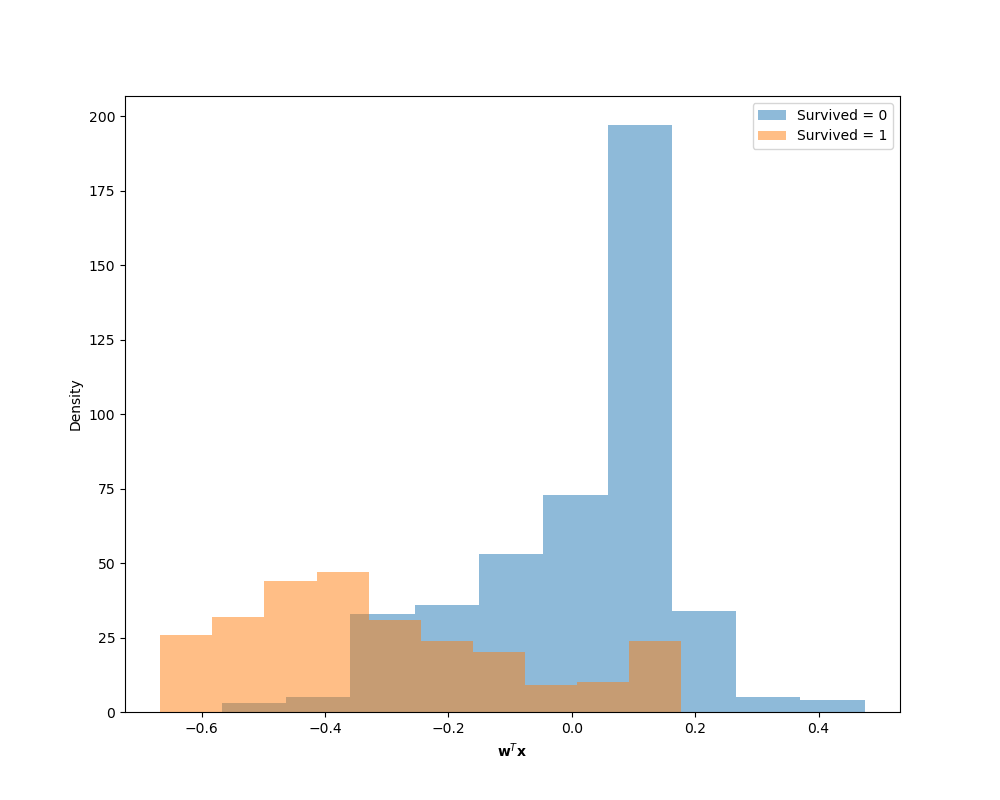
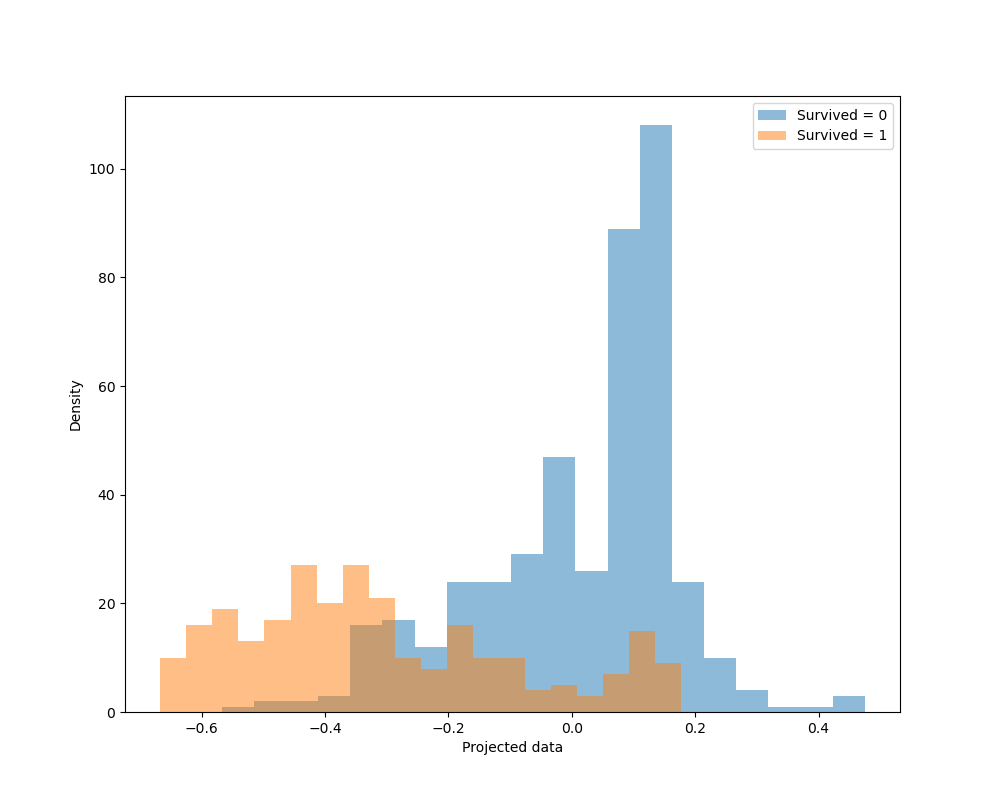
align command line execution to what is expected

diff --git a/main.py b/main.py
@@ -14,8 +14,9 @@ import comparison as comp
 
 
 def preprocessing(df):
+    """Carry out preprocessing of the data to fill missing values, remove an outlier and 
+        convert ordinal variables to one hot vectors"""
     prep.sex2binary(df)
-    #prep.fillagewithmean(df)
     prep.fill_na_age(df)
     prep.fillembarked3(df)
     df = prep.extractTitles(df)
@@ -24,90 +25,101 @@ def preprocessing(df):
     return prep.convert2onehot(df, 'Sex', 'Embarked', 'Title'), df
 
 def explore(df):
+    """This function is used to produce all exploratory plots"""
     expl.variable_info(df)
     expl.plot_heatmap(df)
     expl.plot_overlay_hist(df)
 
     
-def main():
+def main(ifname, knn=False, forest=False, logistic=False, fisher=False, model_comparison=False):
 
     # set cmd panda view and import data
     pd.set_option('display.max_columns', None)
-    alldata = prep.import2df('data/train.csv')
+    alldata = prep.import2df(ifname)
     #alldata = prep.import2df(r'C:\Users\user\ML-group-project.git\ML-group-project\data\train.csv')
 
     # fill in missing data and convert categories to one hot
     alldata, alldata_discrete = preprocessing(alldata)
 
     #Produce some exploratory plots of the data
-    explore(alldata_discrete)
+    #explore(alldata_discrete)
 
     # split 80:10:10 train-validation-test
     x = alldata.drop('Survived', axis=1)
     y = alldata["Survived"]
     X_train, Y_train, X_valid, Y_valid, X_test, Y_test = prep.partition(x, y)
     
-    # Checking KNN vs number of K-neighbors to identify optimum K 
-    eval.accuracy_v_param(X_train,Y_train,X_test,Y_test)
-    # Running the KNN model
-    knn_start_time = time.time()
-    knn_prediction = methods.KNN_predict(X_train, Y_train, X_test, 30)
-    knn_runtime = time.time() - knn_start_time
-    print("------Results for KNN--------")
-    comp.model_performance(knn_prediction, Y_test, knn_runtime)
+    if knn == True:
+        # Checking KNN vs number of K-neighbors to identify optimum K 
+        eval.accuracy_v_param(X_train,Y_train,X_test,Y_test)
+        # Running the KNN model
+        knn_start_time = time.time()
+        knn_prediction = methods.KNN_predict(X_train, Y_train, X_test, 30)
+        knn_runtime = time.time() - knn_start_time
+        print("------Results for KNN--------")
+        comp.model_performance(knn_prediction, Y_test, knn_runtime)
+        cv_val = eval.kfoldCV(alldata, f=3, model="knn", print_result=True)
 
-
-    # # Run random forest model with 100 n_estimators
-    forest_start_time = time.time()
-    forest_prediction = methods.randomForest(X_train, Y_train, X_test, n_estimators=100)
-    forest_runtime = time.time() - forest_start_time
-    print("------Results for Random Forest--------")
-    comp.model_performance(forest_prediction, Y_test, forest_runtime)
-
-    # # Run Logistic Regression model
-    logistic_start_time = time.time()
-    logistic = methods.LogisticRegression()
-    logistic_prediction = logistic.weighting(X_train,Y_train, X_test)
-    logistic_runtime = time.time() - logistic_start_time
-    print("------Results for Logistic Regression--------")
-    comp.model_performance(logistic_prediction, Y_test, logistic_runtime)
-
-    # # Running Fisher LDA
-    fisher_start_time = time.time()
-    fisher_prediction = methods.fishers_LDA(X_train, Y_train, X_test, plot_hist = True)
-    fisher_runtime = time.time() - fisher_start_time
-    print("------Results for Fisher LDA--------")
-    comp.model_performance(fisher_prediction, Y_test, fisher_runtime)
-
-    #Assess Accuracy and Expected loss against sample
-    #Takes 2 minutes to run
-    comp.metric_v_sample(x,y)
-
+    if forest == True:
+        # # Run random forest model with 100 n_estimators
+        forest_start_time = time.time()
+        forest_prediction = methods.randomForest(X_train, Y_train, X_test, n_estimators=100)
+        forest_runtime = time.time() - forest_start_time
+        print("------Results for Random Forest--------")
+        comp.model_performance(forest_prediction, Y_test, forest_runtime)
+        cv_val = eval.kfoldCV(alldata, f=3, model="forest", print_result=True) 
     
-    # # Confusion matrices
-    # TODO Currently the scale is not the same on all 4 plots. 
-    #   This can be modified so that the colours correspond to the same values for all 4 plots
-    comp.plot_cm_comparison(forest_prediction, knn_prediction, fisher_prediction, logistic_prediction, Y_test)
-    
-    # # K-Fold Cross Validation 
-    #Takes just over a minute
-    print("------Cross validation results for KNN--------")
-    cv_val = eval.kfoldCV(alldata, f=3, model="knn", print_result=True)
-    print("------Cross validation results Fisher LDA--------")
-    cv_val = eval.kfoldCV(alldata, f=3, model="fisher", print_result=True)
-    print("------Cross validation results for Random Forest--------")
-    cv_val = eval.kfoldCV(alldata, f=3, model="forest", print_result=True) 
-    print("------Cross validation results for Logistic Regression--------")
-    cv_val = eval.kfoldCV(alldata, f=3, model="logistic", print_result=True) 
-
-    # # K-Fold mean accuracy vs number of folds
-    #This takes approximately 8 minutes 
-    comp.accuracy_v_fold(alldata)
+    if logistic == True:
+        # Run Logistic Regression model
+        logistic_start_time = time.time()
+        logistic = methods.LogisticRegression()
+        logistic_prediction = logistic.weighting(X_train,Y_train, X_test)
+        logistic_runtime = time.time() - logistic_start_time
+        print("------Results for Logistic Regression--------")
+        comp.model_performance(logistic_prediction, Y_test, logistic_runtime)
+        cv_val = eval.kfoldCV(alldata, f=3, model="logistic", print_result=True) 
 
 
+    if fisher == True:
+        # # Running Fisher LDA
+        fisher_start_time = time.time()
+        fisher_prediction = methods.fishers_LDA(X_train, Y_train, X_test, plot_hist = True)
+        fisher_runtime = time.time() - fisher_start_time
+        print("------Results for Fisher LDA--------")
+        comp.model_performance(fisher_prediction, Y_test, fisher_runtime)
+        cv_val = eval.kfoldCV(alldata, f=3, model="fisher", print_result=True)
+
+    if model_comparison == True:
+        #Assess Accuracy and Expected loss against sample
+        #Takes 2 minutes to run
+        #comp.metric_v_sample(x,y)
+        
+        # # Confusion matrices
+        # TODO Currently the scale is not the same on all 4 plots. This can be modified so that the colours correspond to the same values for all 4 plots
+        comp.plot_cm_comparison(forest_prediction, knn_prediction, fisher_prediction, logistic_prediction, Y_test)
+
+        # # K-Fold mean accuracy vs number of folds
+        #This takes approximately 8 minutes 
+        #comp.accuracy_v_fold(alldata)
 
 
 if __name__ == "__main__":
-    main()
-
+    import sys
+    if len(sys.argv) == 1:
+        print("Please specify data file data\\train.csv") 
+    else:
+        # assumes that the first argument is the name of the input data/path
+        if len(sys.argv) == 2:
+            main(ifname=sys.argv[1], knn=True, forest=True, logistic=True, fisher=True, model_comparison=True)
+        else:
+            # assumes that the second argument is the name of the model to be run
+            model = sys.argv[2]
+            if model == "knn":
+                main(ifname=sys.argv[1], knn=True)
+            elif model == "forest":
+                main(ifname=sys.argv[1], forest=True) 
+            elif model == "logistic":
+                main(ifname=sys.argv[1], logistic=True)  
+            elif model == "fisher":
+                main(ifname=sys.argv[1], fisher=True)            
 

diff --git a/comparison.py b/comparison.py
@@ -8,6 +8,7 @@ from statistics import mean
 
 
 def model_performance(model_prediction, Y_test, runtime):
+    """This function prints a number of performance metrics to the console using the prediction made by the model"""
     print("Accuracy:",round(eval.accuracy(model_prediction,Y_test), 4))
     print("Expected loss:",round(eval.expected_loss(Y_test,model_prediction,eval.confusion_matrix(model_prediction,Y_test)), 4))
     print("Misclassification error:", round(eval.misclassification_error(Y_test,model_prediction), 4))
@@ -17,6 +18,7 @@ def model_performance(model_prediction, Y_test, runtime):
 
 
 def plot_cm_comparison(forest_prediction, knn_prediction, fisher_prediction, logistic_prediction, Y_test):
+    """This function plots a confusion matrix for all four models"""
     fig, axs = plt.subplots(2, 2)
     fig.suptitle('Confusion matrices')
     sns.heatmap(eval.confusion_matrix(forest_prediction, Y_test), annot=True, ax=axs[0, 0], xticklabels=False)
@@ -32,8 +34,9 @@ def plot_cm_comparison(forest_prediction, knn_prediction, fisher_prediction, log
     
 # Accuracy vs Training sample size
 def metric_v_sample(x,y):
-    """Function plots the accuracy against the sample size of different models. The inputs is the chosen 
-    model. The output is the plot"""
+    """Function plots the accuracy and expected loss against the sample size of different models. 
+    The inputs is the data. 
+    The output is the plots"""
     size = np.arange(0.11,0.9,0.1)
     KNN_accuracy_score = []
     KNN_loss = []
@@ -98,21 +101,21 @@ def accuracy_v_fold(x):
     forest_cross_vals = []
     fisher_cross_vals = []
     folds = np.arange(2, 10, 2)
-    for i in folds:       
-        logistic_cv_val = eval.kfoldCV(x, f=i, model="logistic")
-        logistic_cross_vals.append(mean(logistic_cv_val))
+    for i in folds:
         knn_cv_val = eval.kfoldCV(x, f=i, k=30, model="knn")
-        knn_cross_vals.append(mean(knn_cv_val))
+        knn_cross_vals.append(mean(knn_cv_val))   
         forest_cv_val = eval.kfoldCV(x, f=i, n_estimators=100, model="forest")
         forest_cross_vals.append(mean(forest_cv_val))
+        logistic_cv_val = eval.kfoldCV(x, f=i, model="logistic")
+        logistic_cross_vals.append(mean(logistic_cv_val))
         fisher_cv_val = eval.kfoldCV(x, f=i, model="fisher")
         fisher_cross_vals.append(mean(fisher_cv_val))
             
     # plotting routine
     plt.figure()
-    plt.plot(folds, logistic_cross_vals, label="Logistic Regression")
     plt.plot(folds, knn_cross_vals, label="KNN")
     plt.plot(folds, forest_cross_vals, label="Random Forest")
+    plt.plot(folds, logistic_cross_vals, label="Logistic Regression")
     plt.plot(folds, fisher_cross_vals, label="FishersLDA")
     plt.xlabel("Folds")
     plt.ylabel("Accuracy")

diff --git a/preprocessing.py b/preprocessing.py
@@ -21,12 +21,7 @@ def convert2onehot(df, *args):
         df = df.join(onehot)
     return df
 
-
-def fillagewithmean(df):
-    """Replace missing age values with the average"""
-    df['Age'] = df['Age'].fillna(value=df['Age'].mean())
-
-#Need to include link to this function in reference
+#TODO Need to include link to this function in reference
 def prep_fill_na_age(df, df_med):
     """Replace missing age values with the median of the PClass and SibSP"""
     for x in range(len(df)):
@@ -65,11 +60,13 @@ def prep_fill_na_age(df, df_med):
                 return df_med.loc[3]["Age"].median() 
 
 def fill_na_age(df):
+    """Set up and call function to replace missing age values 
+        with the median of the PClass and SibSP """
     df_med=df.groupby(["Pclass","SibSp"]).median()
     df["Age"]=df["Age"].fillna(prep_fill_na_age(df, df_med))
 
 def fillembarked3(df):
-    ## filling with the most common
+    """Filling missing values for Embarked column with the most common result"""
     df['Embarked'] = df['Embarked'].fillna(value='S')  
 
 
@@ -124,22 +121,3 @@ def partition(x, y, train_portion=None):
 
     return X_train, Y_train, X_valid, Y_valid, X_test, Y_test
 
-#def main():
-#    """This section is for testing the preprocessing, will be run if you run this file only"""
-#    pd.set_option('display.max_columns', None)
-
-#    train = import2df('data/train.csv')
-#    print(train.to_string())
-#    print(train.isna().sum())
-
- #   sex2binary(train)
- #   fillagewithmean(train)
- #   fillembarked3(train)
- #   train = extractTitles(train)
- #   print(train)
- #   train = convert2onehot(train, 'Sex', 'Embarked', 'Title')
- #   print(train)
-
-
-#if __name__ == "__main__":
-#    main()

diff --git a/methods.py b/methods.py
@@ -61,6 +61,8 @@ def KNN_prob(x_train, y_train, test, K):
 
 # Fisher's LDA  
 def fishers_LDA(x_train, y_train, x_test, plot_hist = False):
+    """This function trains the Fishers LDA model on the training set and predicts 
+        the probability of survival of the testing set"""
     # separate target by classes
     inputs0 = []
     inputs1 = []
@@ -99,9 +101,9 @@ def fishers_LDA(x_train, y_train, x_test, plot_hist = False):
         projected_inputs0 = project_data(inputs0, w_norm) 
         projected_inputs1 = project_data(inputs1, w_norm) 
         plt.figure(figsize=(10,8))
-        plt.hist(projected_inputs0, alpha=0.5, label='Survived = 0')
-        plt.hist(projected_inputs1, alpha=0.5, label='Survived = 1') 
-        plt.xlabel(r"$\mathbf{w}^T\mathbf{x}$")
+        plt.hist(projected_inputs0, bins=20, alpha=0.5, label='Survived = 0')
+        plt.hist(projected_inputs1, bins=20, alpha=0.5, label='Survived = 1') 
+        plt.xlabel("Projected data")
         plt.ylabel("Density")
         plt.legend()  
         plt.savefig('plots\Fisher_separation.png')   
@@ -132,6 +134,8 @@ def fishers_LDA(x_train, y_train, x_test, plot_hist = False):
 
 
 def max_lik(data):
+    """Finds the maximum likelihood mean and covariance matrix for gaussian data
+    samples (data)"""
     N, dim = data.shape
     mu = np.mean(data, 0)
     Sigma = np.zeros((dim, dim))

diff --git a/exploratory.py b/exploratory.py
@@ -5,16 +5,20 @@ import seaborn as sns
 
 
 def variable_info(data):
+    """ Print the data types of each variable to the console"""
     print(list(data.columns))
     for column in data.columns.values:
         print (column, "data type: ", type(data[column][1]))
 
 def plot_heatmap(data):
+    """Plot and save a heatmap of the correlation of each variable used in the data"""
     plt.figure(figsize=(10,8))
     sns.heatmap(data.corr(), annot=True)
     plt.savefig('plots\Correlation_heatmap.png')
 
 def plot_overlay_hist(data):
+    """Plot an overlay histogram of the survival of passengers for the Age and Fare 
+        variable separately"""
     survived = data[data.Survived==1]
     notsurvived = data[data.Survived==0]
 

diff --git a/evaluation.py b/evaluation.py
@@ -32,10 +32,11 @@ def confusion_matrix(Y_predict, Y):
     return cm
 
 def accuracy_v_param(X_train,Y_train,X_test,Y_test):
-
+    """This function plots the accuracy of the KNN model prediction against the 
+        number of K-neighbors to identify optimum K"""
     K_values = np.arange(1,51)
     accuracy_score = []
-    for k in K_values: # from K=1 to K=20
+    for k in K_values: # from K=1 to K=50
         y_predict = methods.KNN_predict(X_train, Y_train, X_test, k)
         accuracy_score.append(accuracy(y_predict,Y_test))
         

diff --git a/README.md b/README.md
@@ -5,9 +5,14 @@ by Rifat Mahammod, Abid Razavi, Robert Shaw and Rajni Sandhu
 
 This project uses the passenger data from the Titanic to correctly predict the passengers who died or survived as a result of the sinking ship. The project uses a range of different supervised machine learning models to attempt at an accurate result. Different metrics are used to evaluate the results from each model in order to investigate the advantages and limitations of different classification models
 
+## Abstract
+(Paste abstract from report once written)
+
 ## Software Implementation
 
-The structure of the code involves five main files of the project as described below.
+The data used in this study is provided in the data folder. Plots generated by the code are saved in the plots folder.
+
+The structure of the code involves six main files of the project as described below.
 
 (1) exploration.py: This python file was created for preliminary analysis of the data. Running this file would produce printed tables and values, as well as plots of the data. This first hand analysis was done to understand the relationship between the different features. 
 
@@ -15,9 +20,13 @@ The structure of the code involves five main files of the project as described b
 
 (3) methods.py: This file contains the functions for the models used in this project.
 
-(4) evaluation.py: This file contains the functions of the different metrics used to evaluate the models such as K-fold cross validation, confusion matrix and ROC curves.
+(4) evaluation.py: This file contains the functions of the different metrics used to evaluate the models such as K-fold cross validation and confusion matrix.
 
-(5) main.py: In this file, all the previous function are imported and compiled together to obtain the model predictions, accuracies and results from cross evaluation metrics.
+(5) comparison.py: This file contains the functions for comparing the metrics for all four models assessed.
+
+(6) main.py: In this file, all the previous function are imported and compiled together to obtain the model predictions, accuracies and results from cross evaluation metrics.
+
+
 
 ### Machine Learning Models
 
@@ -43,7 +52,9 @@ To be able to run this project a working python environment is required. It is r
 
 * Install required modules using modules using Pip:`pip install -r requirements.txt`
   
-* Run main.py:`python main.py`
+* To run all results and comparisons:`python main.py data\train.csv`
+
+* To run the results for a specific model, state it as the third argument e.g.: `python main.py data\train.csv knn` `python main.py data\train.csv forest` `python main.py data\train.csv logistic` `python main.py data\train.csv fisher`   
 
 ## Authors
 
